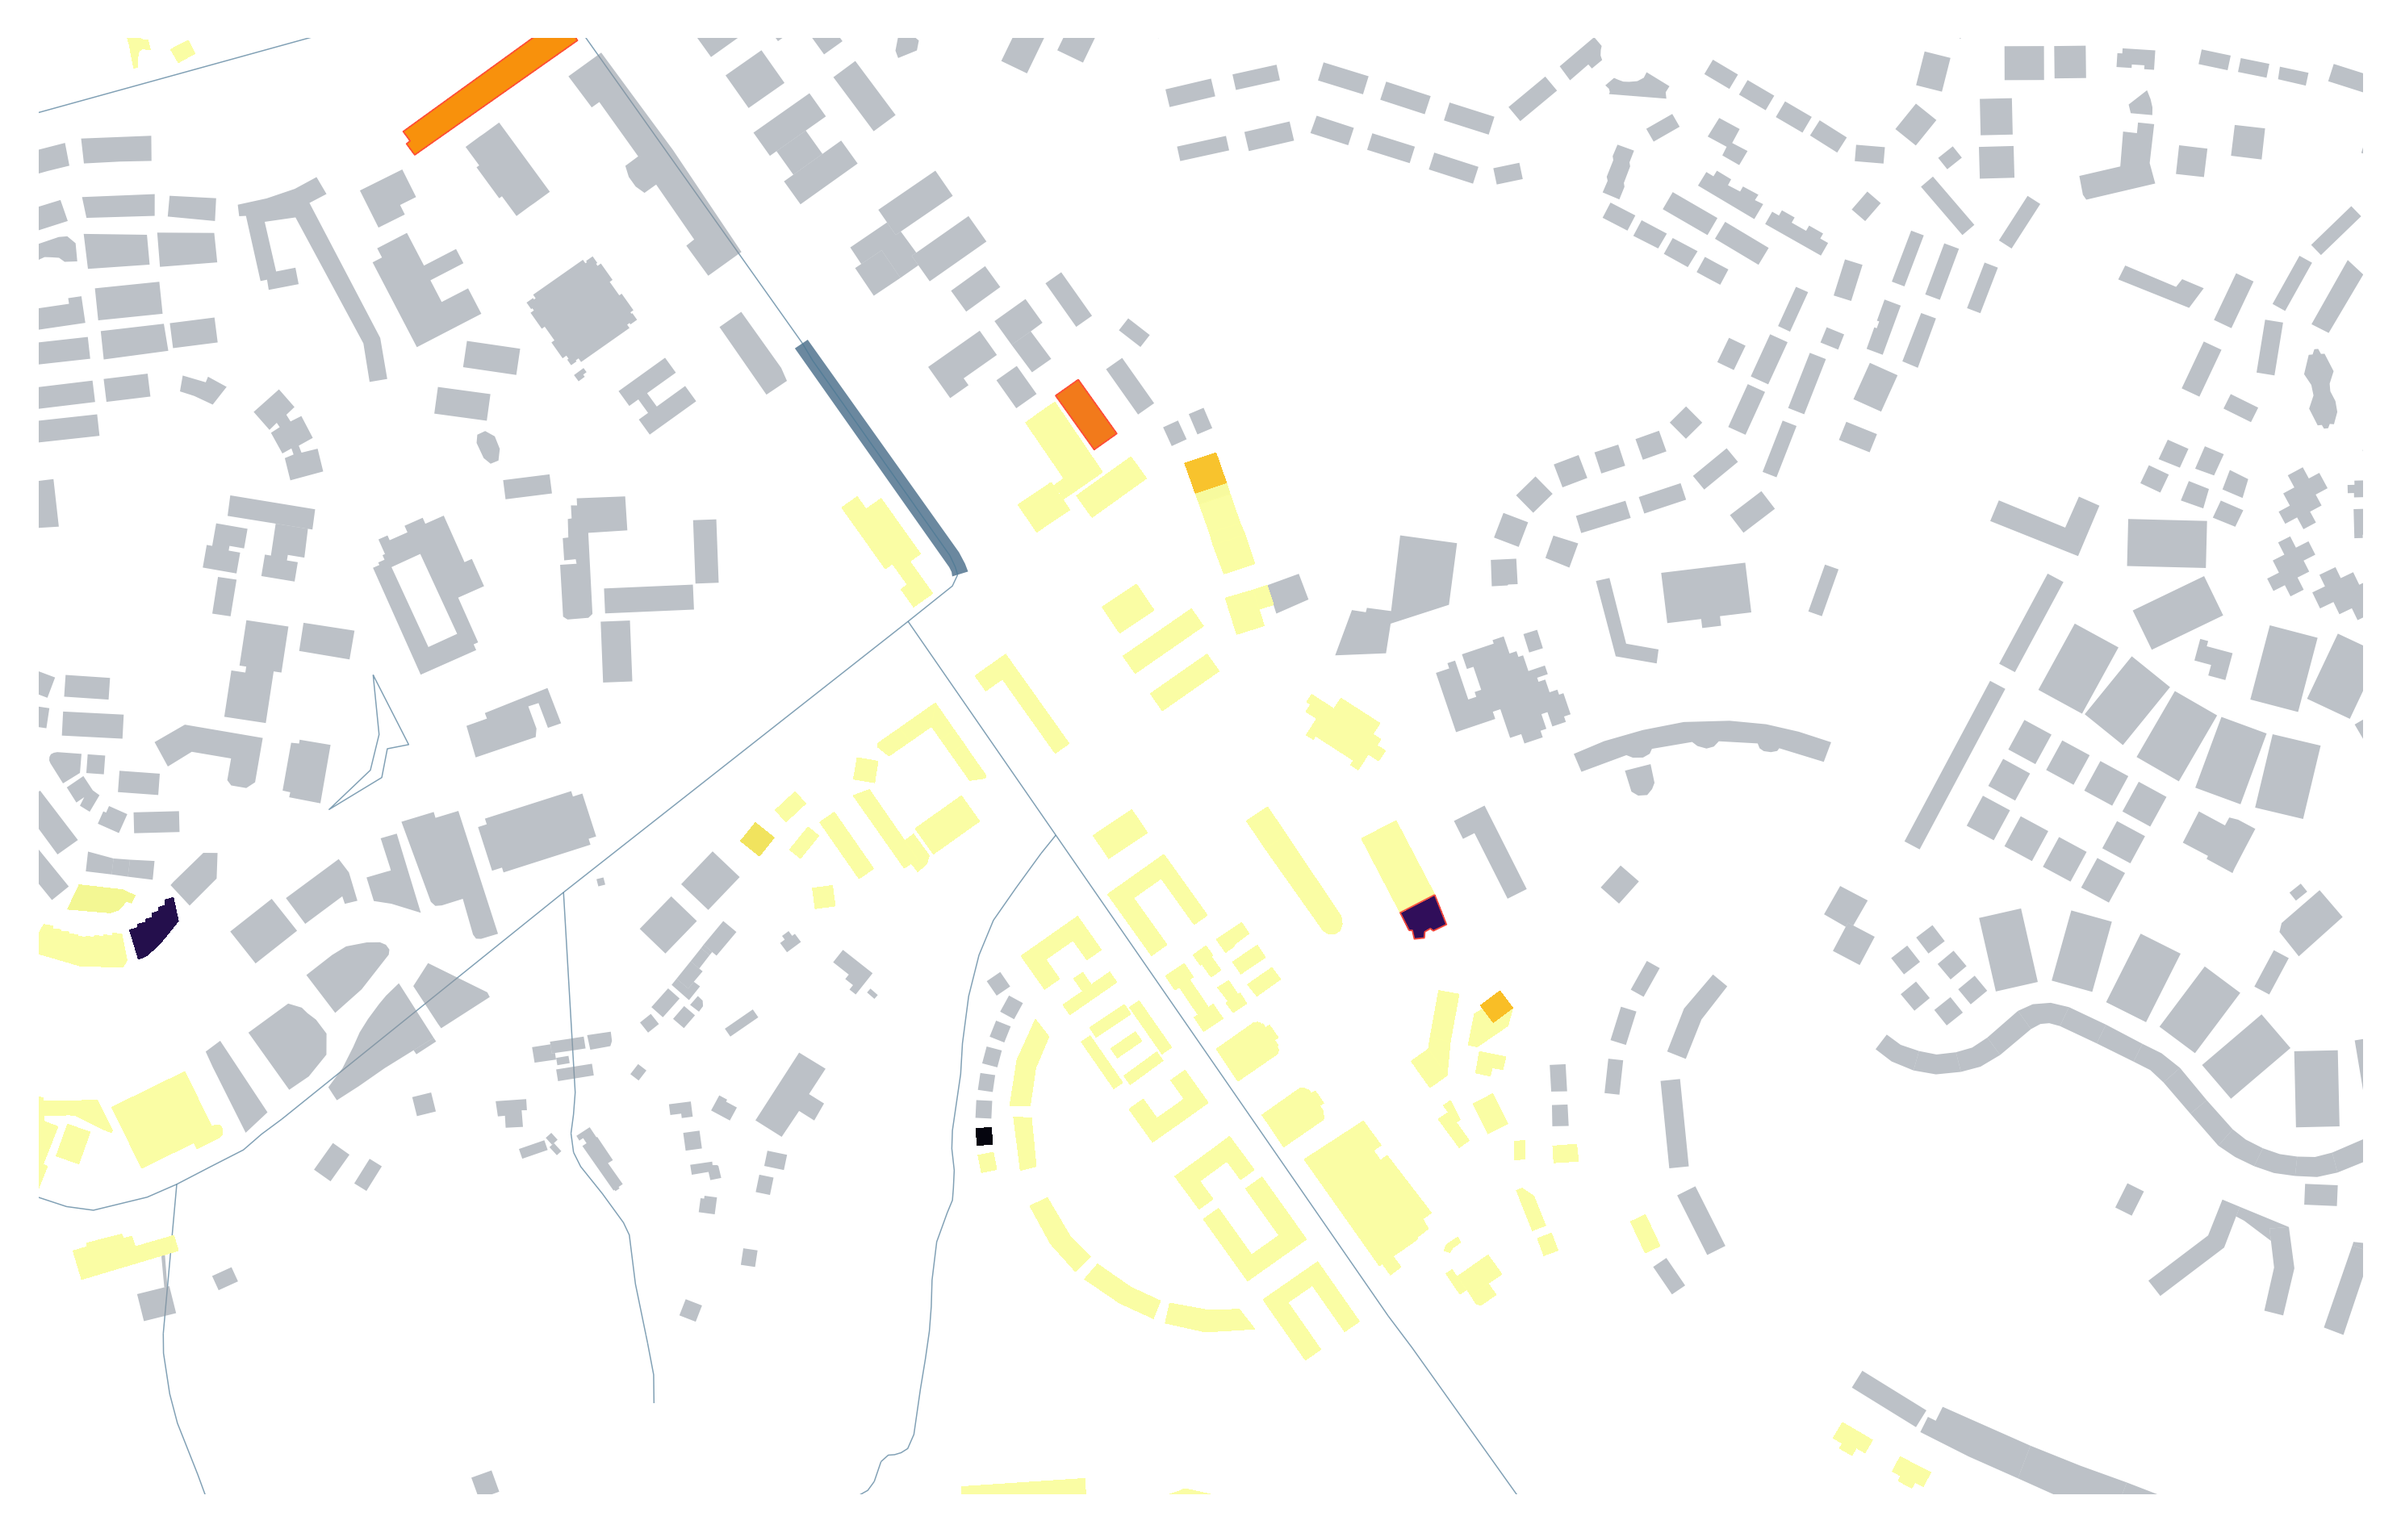
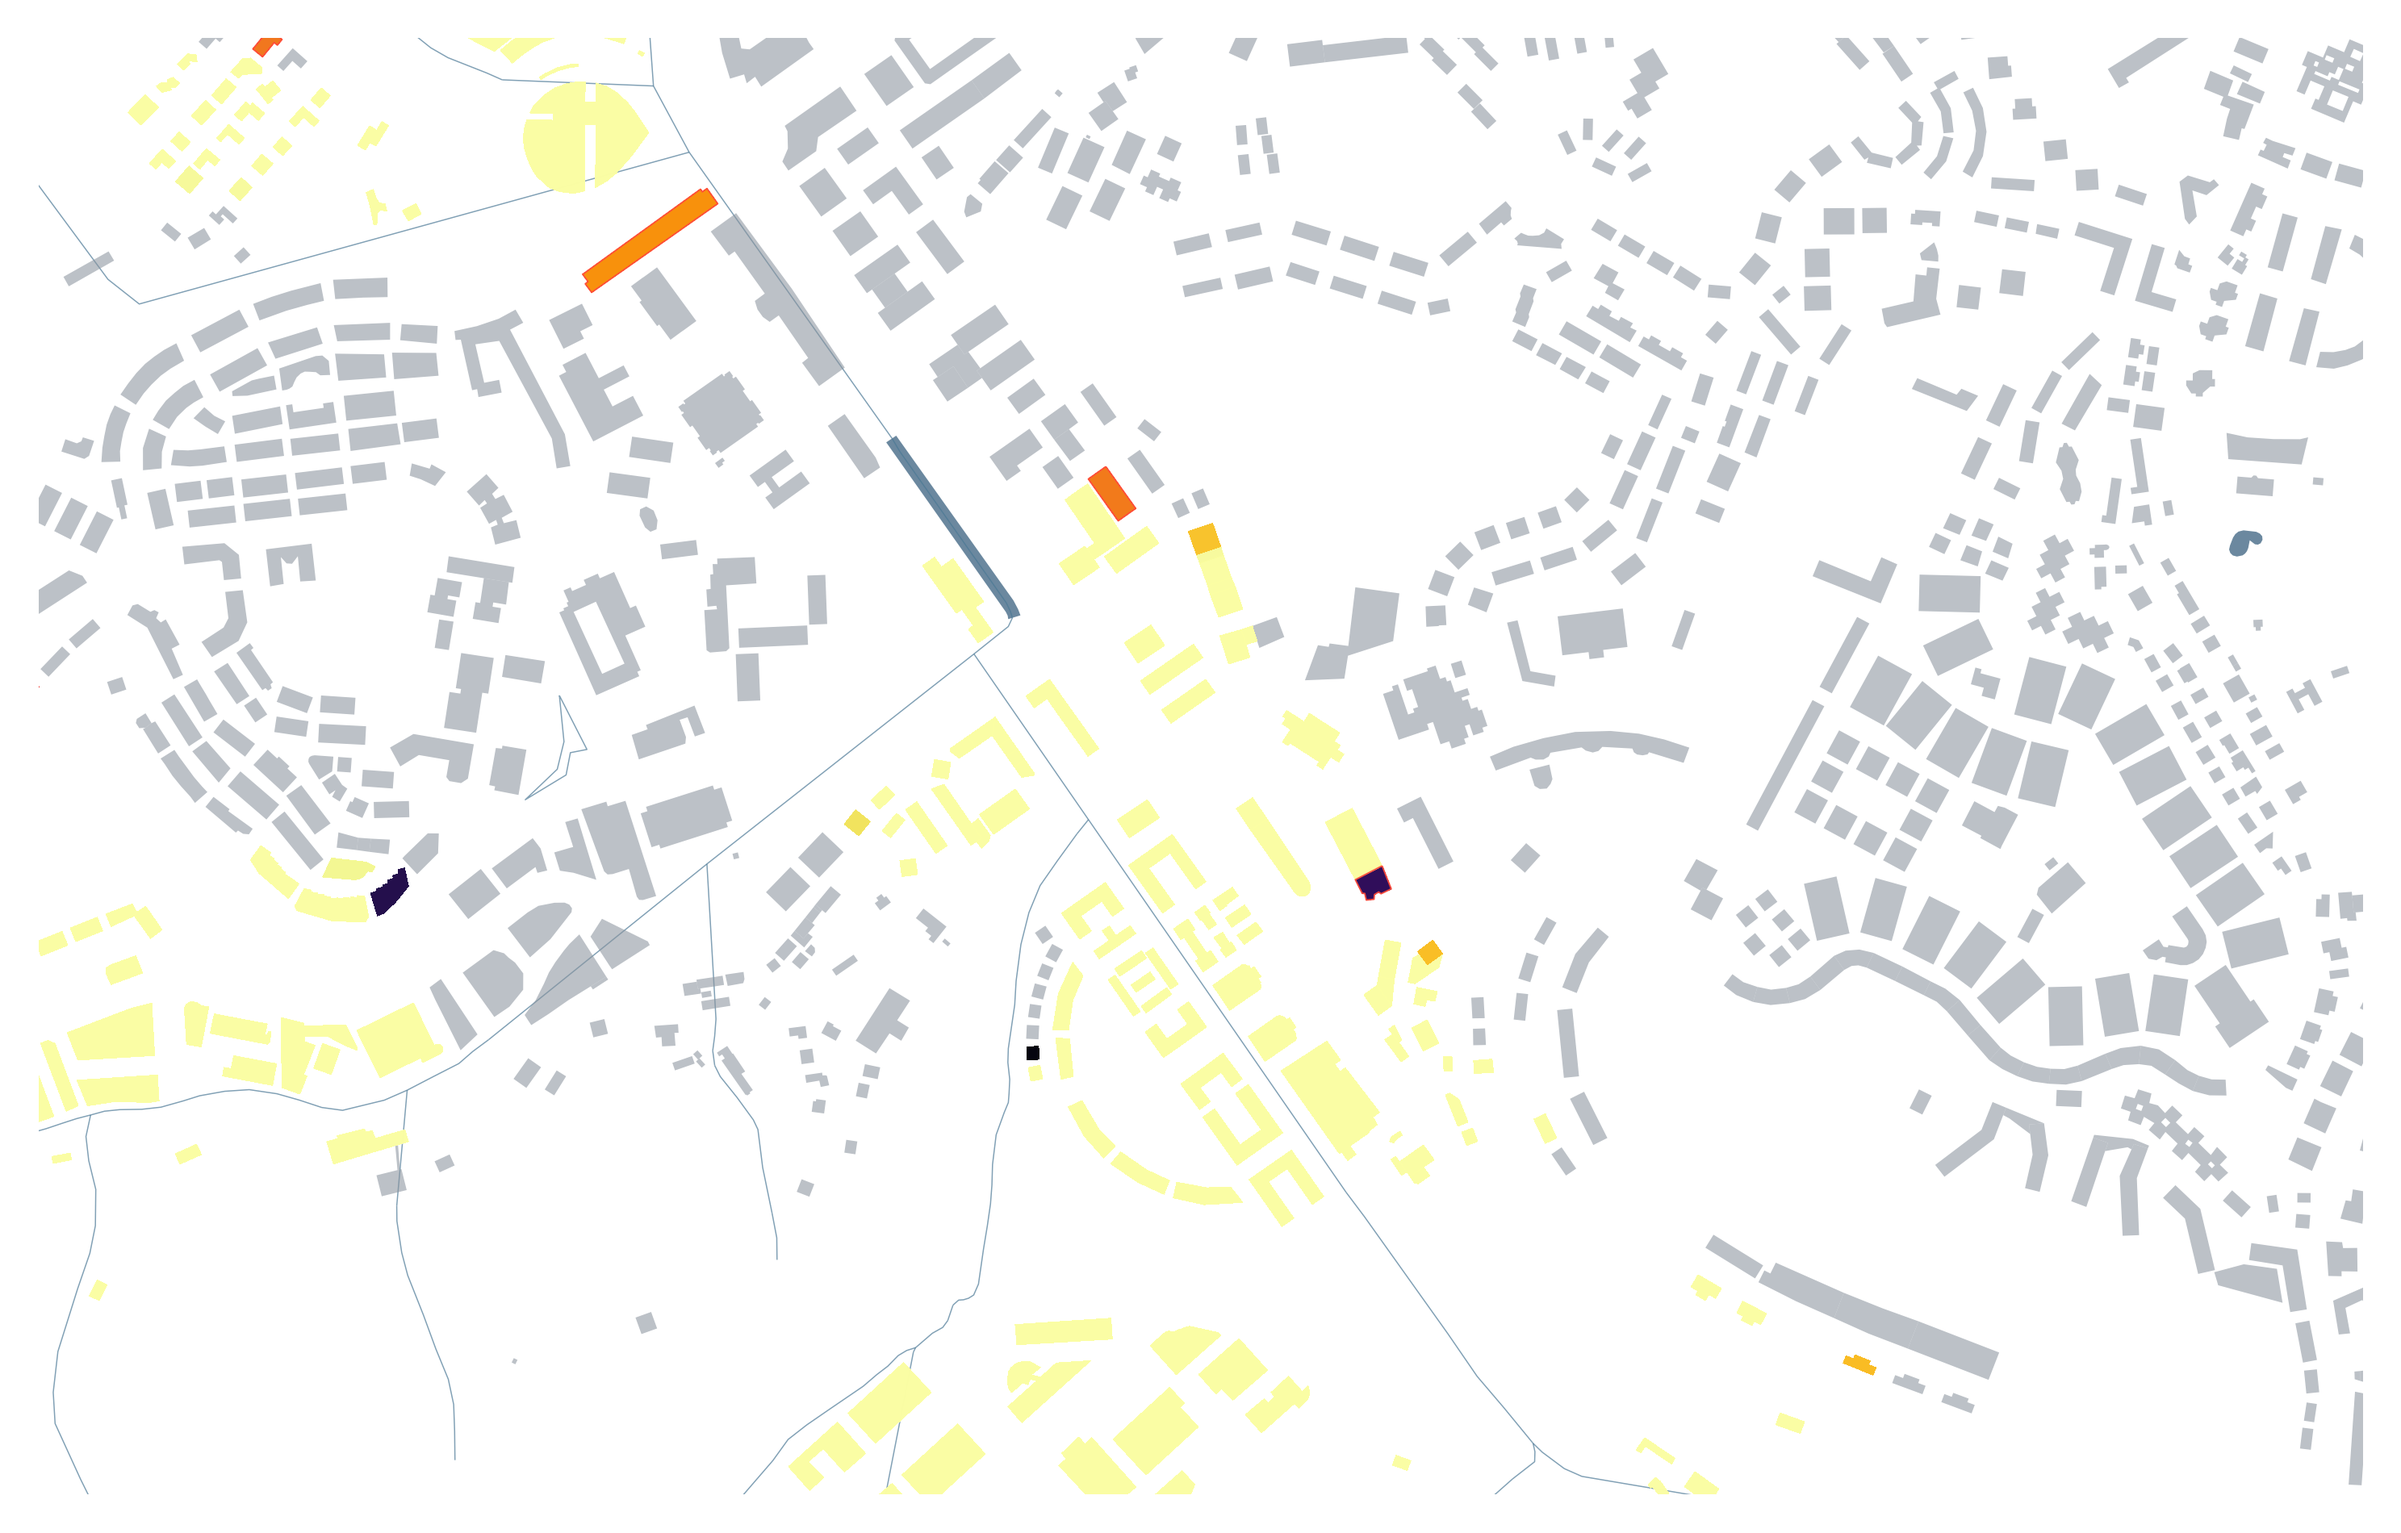
update: hero images and text website

diff --git a/index.html b/index.html
@@ -5,11 +5,11 @@
   <meta name="viewport" content="width=device-width, initial-scale=1">
   <title>Habnetic</title>
 
-  <meta name="description" content="Habnetic is an independent open-source research project on posterior decision stability for uncertainty-aware urban flood prioritisation.">
+  <meta name="description" content="Habnetic is an independent open-source research project on posterior decision stability for robust, uncertainty-aware prioritisation.">
   <link rel="canonical" href="https://habnetic.org/">
 
   <meta property="og:title" content="Habnetic">
-  <meta property="og:description" content="Posterior decision stability for uncertainty-aware prioritisation.">
+  <meta property="og:description" content="Posterior decision stability for robust prioritisation.">
   <meta property="og:type" content="website">
   <meta property="og:url" content="https://habnetic.org/">
   <meta property="og:image" content="https://habnetic.org/assets/images/og-image.png">
@@ -41,11 +41,11 @@
   <main id="main">
     <section id="home" class="hero">
       <div class="hero-content">
-        <p class="eyebrow">Open-source Bayesian research</p>
+        <p class="eyebrow">Posterior decision stability</p>
 
         <h1>
           Posterior decision stability for
-          <span>uncertainty-aware prioritisation.</span>
+          <span>robust prioritisation.</span>
         </h1>
 
         <p class="hero-subtitle">
@@ -80,7 +80,7 @@
             <strong id="hero-city">Rotterdam</strong>
             <span id="hero-buildings">221,324 buildings</span>
             <span id="hero-topk">Top-priority set: k = 2,213 · 1%</span>
-            <span id="hero-boundary">Uncertain boundary: 0.01%</span>
+            <span id="hero-boundary">Boundary assets: 0.01%</span>
           </div>
 
           <div class="hero-legend" aria-label="Map legend">
@@ -140,7 +140,7 @@
     <section id="outputs" class="section">
       <div class="section-heading">
         <p class="eyebrow">Research outputs</p>
-        <h2>Documents for review and reuse</h2>
+        <h2>Explore the research</h2>
       </div>
 
       <div class="cards">
@@ -188,7 +188,7 @@
             methods for posterior decision stability and robust prioritisation under uncertainty.
           </p>
           <p>
-            Current work focuses on urban flood prioritisation, using Rotterdam as the baseline
+            Current case study focuses on urban flood prioritisation, using Rotterdam as the baseline
             case followed by cross-city transfer to Hamburg and Donostia.
           </p>
         </div>
@@ -216,7 +216,7 @@
 
     <div>
       <p>© 2026 Habnetic — Open research lab for posterior decision stability</p>
-      <p>Created by Mikel Martínez · Architect &amp; Data Strategist</p>
+      <p>Created by Mikel Martínez · Independent Researcher</p>
       <p>
         <a href="https://github.com/Habnetic" target="_blank" rel="noopener noreferrer">GitHub</a> ·
         <a href="mailto:info@habnetic.org">Email</a> ·
@@ -226,74 +226,72 @@
   </footer>
 
   <script>
-  const heroCities = [
-    {
-      city: "Rotterdam",
-      image: "assets/images/hero/rotterdam.png",
-      alt: "Rotterdam posterior top-k probability map",
-      buildings: "221,324 buildings",
-      topk: "Top-priority set: k = 2,213 · 1%",
-      boundary: "Boundary assets: 0.01%"
-    },
-    {
-      city: "Hamburg",
-      image: "assets/images/hero/hamburg.png",
-      alt: "Hamburg posterior top-k probability map",
-      buildings: "341,530 buildings",
-      topk: "Top-priority set: k = 3,415 · 1%",
-      boundary: "Boundary assets: 0.02%"
-    },
-    {
-      city: "Donostia",
-      image: "assets/images/hero/donostia.png",
-      alt: "Donostia posterior top-k probability map",
-      buildings: "7,755 buildings",
-      topk: "Top-priority set: k = 78 · 1%",
-      boundary: "Boundary assets: 0.17%"
+    const heroCities = [
+      {
+        city: "Rotterdam",
+        image: "assets/images/hero/rotterdam.png",
+        alt: "Rotterdam posterior top-k probability map",
+        buildings: "221,324 buildings",
+        topk: "Top-priority set: k = 2,213 · 1%",
+        boundary: "Boundary assets: 0.01%"
+      },
+      {
+        city: "Hamburg",
+        image: "assets/images/hero/hamburg.png",
+        alt: "Hamburg posterior top-k probability map",
+        buildings: "341,530 buildings",
+        topk: "Top-priority set: k = 3,415 · 1%",
+        boundary: "Boundary assets: 0.02%"
+      },
+      {
+        city: "Donostia",
+        image: "assets/images/hero/donostia.png",
+        alt: "Donostia posterior top-k probability map",
+        buildings: "7,755 buildings",
+        topk: "Top-priority set: k = 78 · 1%",
+        boundary: "Boundary assets: 0.17%"
+      }
+    ];
+
+    const heroA = document.getElementById("hero-map-a");
+    const heroB = document.getElementById("hero-map-b");
+    const heroCard = document.querySelector(".hero-info-card");
+    const heroCity = document.getElementById("hero-city");
+    const heroBuildings = document.getElementById("hero-buildings");
+    const heroTopk = document.getElementById("hero-topk");
+    const heroBoundary = document.getElementById("hero-boundary");
+
+    let currentHero = 0;
+    let activeImage = heroA;
+    let inactiveImage = heroB;
+
+    function updateHero() {
+      currentHero = (currentHero + 1) % heroCities.length;
+      const next = heroCities[currentHero];
+
+      inactiveImage.src = next.image;
+      inactiveImage.alt = next.alt;
+
+      heroCard.classList.add("is-fading");
+
+      setTimeout(() => {
+        heroCity.textContent = next.city;
+        heroBuildings.textContent = next.buildings;
+        heroTopk.textContent = next.topk;
+        heroBoundary.textContent = next.boundary;
+
+        heroCard.classList.remove("is-fading");
+      }, 450);
+
+      inactiveImage.classList.add("is-active");
+      activeImage.classList.remove("is-active");
+
+      const oldActive = activeImage;
+      activeImage = inactiveImage;
+      inactiveImage = oldActive;
     }
-  ];
-  
 
-  const heroA = document.getElementById("hero-map-a");
-  const heroB = document.getElementById("hero-map-b");
-  const heroCard = document.querySelector(".hero-info-card");
-  const heroCity = document.getElementById("hero-city");
-  const heroBuildings = document.getElementById("hero-buildings");
-  const heroTopk = document.getElementById("hero-topk");
-  const heroBoundary = document.getElementById("hero-boundary");
-
-  let currentHero = 0;
-  let activeImage = heroA;
-  let inactiveImage = heroB;
-
-  function updateHero() {
-    currentHero = (currentHero + 1) % heroCities.length;
-    const next = heroCities[currentHero];
-
-    inactiveImage.src = next.image;
-    inactiveImage.alt = next.alt;
-
-    heroCard.classList.add("is-fading");
-
-    setTimeout(() => {
-      heroCity.textContent = next.city;
-      heroBuildings.textContent = next.buildings;
-      heroTopk.textContent = next.topk;
-      heroBoundary.textContent = next.boundary;
-
-      heroCard.classList.remove("is-fading");
-      
-    }, 450);
-
-    inactiveImage.classList.add("is-active");
-    activeImage.classList.remove("is-active");
-
-    const oldActive = activeImage;
-    activeImage = inactiveImage;
-    inactiveImage = oldActive;
-  }
-
-  setInterval(updateHero, 11000);
-</script>
+    setInterval(updateHero, 11000);
+  </script>
 </body>
 </html>
